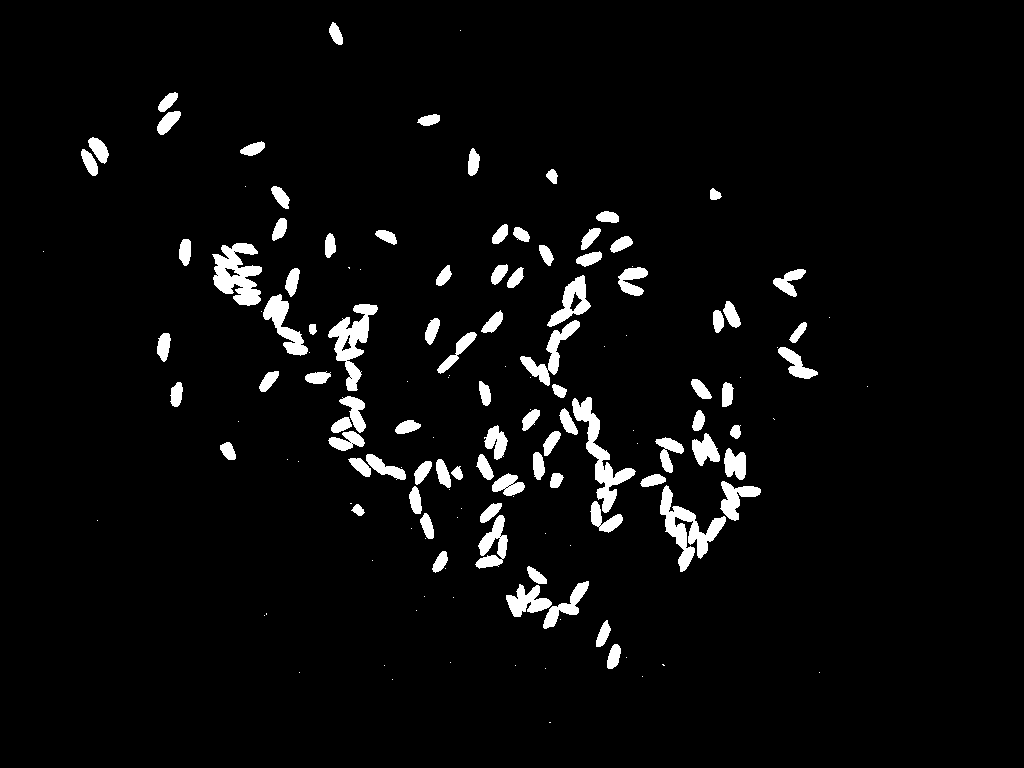
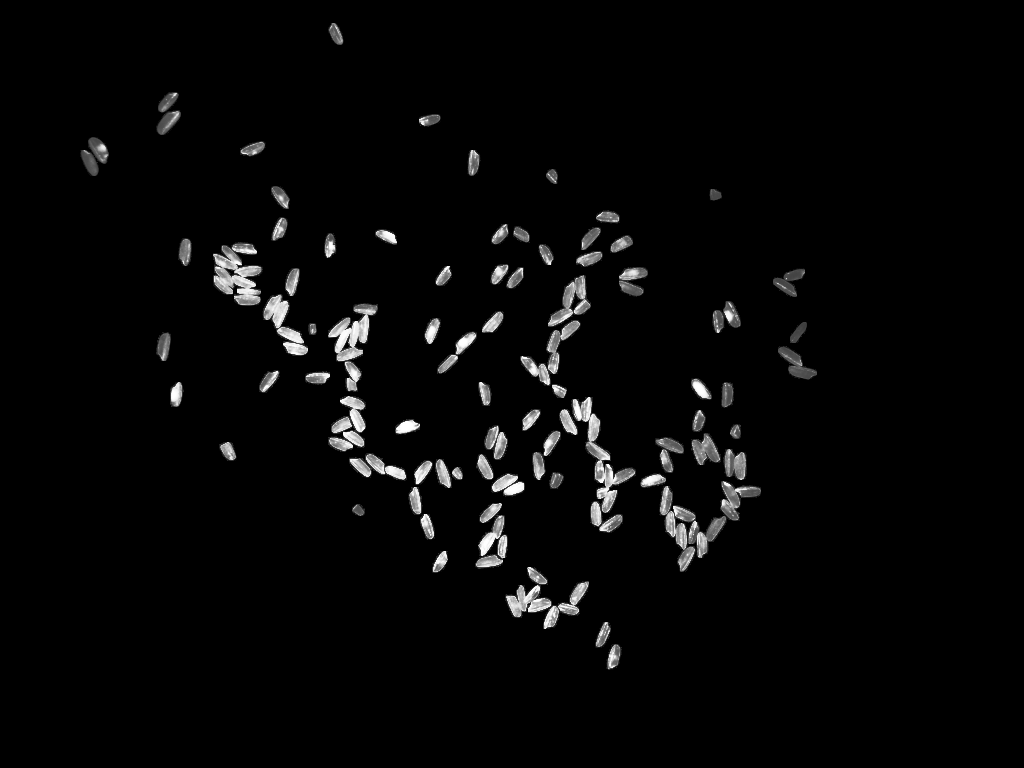
Test equalization

diff --git a/main.py b/main.py
@@ -24,11 +24,48 @@ def main():
         
         #blur = cv2.adaptiveThreshold(img, maxValue=)
 
-        adaptativeThreshold = cv2.adaptiveThreshold(blur, C=-5, blockSize=31, maxValue=1, adaptiveMethod=cv2.ADAPTIVE_THRESH_GAUSSIAN_C, thresholdType=cv2.THRESH_BINARY)
+        adaptativeThreshold = cv2.adaptiveThreshold(blur, C=-5, blockSize=33, maxValue=1, adaptiveMethod=cv2.ADAPTIVE_THRESH_GAUSSIAN_C, thresholdType=cv2.THRESH_BINARY)
 
-        val, globalThreshold = cv2.threshold(blur, thresh=0, maxval=1, type=cv2.THRESH_BINARY+cv2.THRESH_OTSU)
+        otsuThreshold, globalThreshold = cv2.threshold(blur, thresh=0, maxval=1, type=cv2.THRESH_BINARY+cv2.THRESH_OTSU)
+
+        canny = cv2.Canny(blur, threshold1=0.5*otsuThreshold, threshold2=otsuThreshold, apertureSize=3)
 
         mask = adaptativeThreshold * globalThreshold
+
+        kernel = np.ones((3,3), np.float32)
+        #mask = cv2.morphologyEx(mask, cv2.MORPH_CLOSE, kernel, iterations=1)
+        mask = cv2.morphologyEx(mask, cv2.MORPH_OPEN, kernel, iterations=2)
+        mask = cv2.morphologyEx(mask, cv2.MORPH_DILATE, kernel, iterations=1)
+
+        #canny = canny * mask
+        img = img * mask
+
+        #img1 = (img - np.min(img, initial=255, where=img!=0))/(np.max(img) - np.min(img, initial=255, where=img!=0))#np.ptp(img)
+        min = np.min(img, initial=255, where=img!=0)
+        img = np.where(img == 0, min, img)
+        equalized = cv2.equalizeHist(img)
+
+        #dx = cv2.Sobel(equalized, cv2.CV_64F, 1, 0, ksize=5)
+        #dy = cv2.Sobel(equalized, cv2.CV_64F, 0, 1, ksize=5)
+
+        #mag = cv2.magnitude(dx, dy)
+        #orien = cv2.phase(dx, dy, angleInDegrees=True)
+        #orien = orien / 2. # Go from 0:360 to 0:180 
+        #hsv = np.zeros((orien.shape[0], orien.shape[1], 3), dtype=np.uint8)
+        #hsv[..., 0] = orien # H (in Opencv2 between 0:180)
+        #hsv[..., 1] = 255 # S
+        #hsv[..., 2] = cv2.normalize(mag, None, 0, 255, cv2.NORM_MINMAX) # V 0:255
+
+        #bgr = cv2.cvtColor(hsv, cv2.COLOR_HSV2BGR)
+
+        #laplacian = cv2.Laplacian(equalized, cv2.CV_64F)
+
+        #canny = cv2.Canny(equalized, threshold1=0.5*otsuThreshold, threshold2=otsuThreshold, apertureSize=3)
+
+        #normalized = img[:]
+        #print(min)
+        #normalized = cv2.normalize(img, normalized, 0, 255, norm_type=cv2.NORM_MINMAX)
+        #cv2.normalize(img1, img, alpha=1, beta=255)
 
         #out = cv2.GaussianBlur(out, ksize=(0, 0), sigmaX=2.0)
 
@@ -56,7 +93,7 @@ def main():
         fechamento = cv2.morphologyEx(abertura, cv2.MORPH_CLOSE, kernel, iterations=1)'''
 
 
-        cv2.imwrite(f'test{nome}.png', mask*255)
+        cv2.imwrite(f'test{nome}.png', equalized)
         
 
 if __name__ == '__main__':
